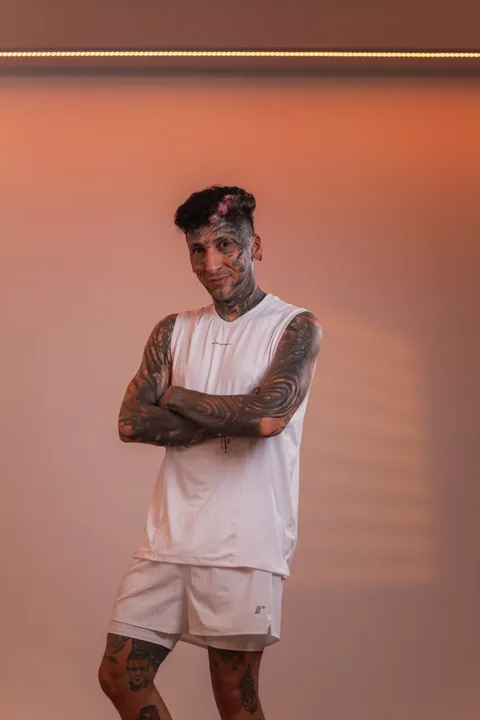
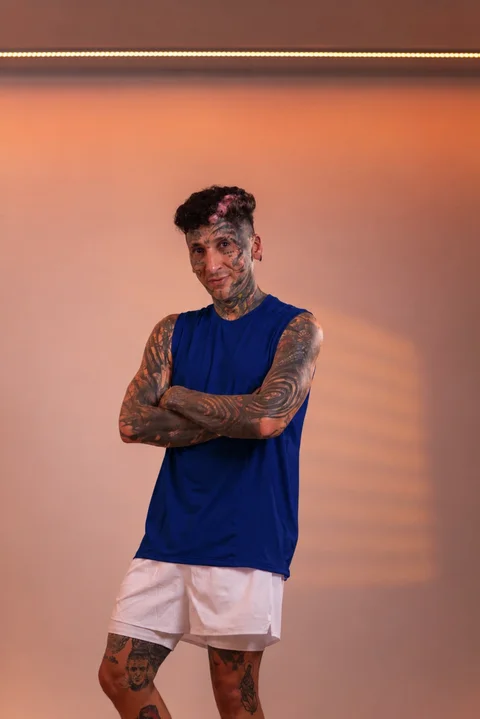
fix: apply verified teacher photo selections
W-01, W-05: apply only clear annotated selections; preserve CMS overrides and pending identities. Browser review remains pending.

diff --git a/src/modules/website/pages/HomePage.tsx b/src/modules/website/pages/HomePage.tsx
@@ -76,7 +76,7 @@ function SanctuaryHome() {
         {today.length ? today.slice(0, 4).map(({ session, modality, teacher }) => <Link key={session.id} to={modality ? `/site/schedule?modality=${modality.slug}` : '/site/schedule'} className="sanctuary-session"><span className="sanctuary-session-time">{new Intl.DateTimeFormat(lang === 'es' ? 'es-CO' : 'en-US', { hour: 'numeric', minute: '2-digit' }).format(new Date(session.starts_at))}</span><span><strong>{session.title}</strong><small>{teacher?.display_name} · {modality?.duration_min ?? 60} min</small></span><span aria-hidden>↗</span></Link>) : <p className="sanctuary-agenda-empty">{t('site.today.empty')}</p>}
       </div></div></section>,
     Teachers: () => <section className="container sanctuary-section" data-reveal><div className="sanctuary-heading"><div><p className="eyebrow">{t('site.nav.teachers')}</p><h2>{t('site.new.teachersTitle')}</h2><p className="muted">{t('site.new.teachersBody')}</p></div><Link className="sanctuary-text-link" to="/site/teachers">{t('site.nav.teachers')} <Icon name="arrow-right" /></Link></div>
-      <div className="sanctuary-teachers"><div className="sanctuary-community"><>{photoEdition ? <img {...studioPhotoProps('pricing-duo')} alt={t('site.photos.duo')} className="photo-community" /> : <AmbientScene poster={siteImage('community')} video={videoEnabled ? siteVideo('community') : undefined} alt={t('site.new.community')} motion={motion} className="community-living" />}</><p>{t('site.new.community')}</p></div><div className="sanctuary-teacher-list">{teachers.map((te, i) => {
+      <div className="sanctuary-teachers"><div className="sanctuary-community"><>{photoEdition ? <img {...studioPhotoProps('hero-group', true)} alt={t('site.photos.teachersGroup')} className="photo-community" /> : <AmbientScene poster={siteImage('community')} video={videoEnabled ? siteVideo('community') : undefined} alt={t('site.new.community')} motion={motion} className="community-living" />}</><p>{t('site.new.community')}</p></div><div className="sanctuary-teacher-list">{teachers.map((te, i) => {
         // 0051: real teachers, no generated portraits — the photo once uploaded, else initials in the tone of their class.
         const mod = modalities.find((m) => m.id === te.specialties[0]);
         const cls = classForModality(mod?.slug);

diff --git a/src/modules/website/photography.ts b/src/modules/website/photography.ts
@@ -3,5 +3,8 @@ export const studioPhoto = (name: string, width = 960) => `${import.meta.env.BAS
 export function studioPhotoProps(name: string, portrait = false, priority = false) {
   return { src: studioPhoto(name), srcSet: `${studioPhoto(name, 480)} 480w, ${studioPhoto(name)} 960w`, sizes: '(max-width: 700px) 100vw, 50vw', width: 960, height: portrait ? 1440 : 640, loading: priority ? 'eager' as const : 'lazy' as const, decoding: 'async' as const, fetchPriority: priority ? 'high' as const : 'auto' as const };
 }
-const teacherPhotos: Record<string, string> = { tea_leandro: 'teacher-leandro', tea_tatiana: 'teacher-tatiana', tea_sara_c: 'teacher-sara-crismatt', tea_raghu: 'teacher-raghu', tea_maria_camila: 'teacher-maria-camila', tea_sara_e: 'teacher-sara-estrada', tea_carolina: 'teacher-carolina' };
+// Aleja's 2026-10-26 drawing explicitly links Andre Cardona (not the separate Andrea
+// profile) to the hand-on-hip portrait. Carolina's conflicting arrows remain pending.
+// Source IDs and conversion provenance: docs/reference/aleja-teacher-photos-2026-10-26.md.
+const teacherPhotos: Record<string, string> = { tea_leandro: 'teacher-leandro', tea_tatiana: 'teacher-tatiana', tea_sara_c: 'teacher-sara-crismatt', tea_raghu: 'teacher-raghu', tea_maria_camila: 'teacher-maria-camila', tea_sara_e: 'teacher-sara-estrada', tea_carolina: 'teacher-carolina', tea_andre: 'teacher-andre-cardona', tea_clara: 'teacher-clara' };
 export const teacherStudioPhoto = (id: string) => teacherPhotos[id] ? studioPhoto(teacherPhotos[id]) : undefined;

diff --git a/src/modules/website/strings.ts b/src/modules/website/strings.ts
@@ -19,6 +19,7 @@ export const strings: StringTable = {
   'site.photos.heater': { es: 'Detalle de la calefacción del estudio', en: 'A detail of the studio heating' },
   'site.photos.equipment': { es: 'Accesorios de práctica del estudio', en: 'Practice equipment in the studio' },
   'site.photos.duo': { es: 'Dos personas practicando movimiento juntas', en: 'Two people practicing movement together' },
+  'site.photos.teachersGroup': { es: 'Cuatro personas practicando movimiento frente a una pared de listones', en: 'Four people practicing movement in front of a slatted wall' },
   'site.photos.facilities': { es: 'Un espacio para estar presente', en: 'A space to be present' },
 
   'site.edition.latest': { es: 'Latest · Actual', en: 'Latest · Current' },

diff --git a/docs/reference/aleja-teacher-photos-2026-10-26.md b/docs/reference/aleja-teacher-photos-2026-10-26.md
@@ -1,0 +1,22 @@
+# Teacher photograph selection receipt
+
+Reviewed the complete supplied teacher drawing and enlarged labels/arrows. No PDF pixels are used as website assets. The detailed private source receipt is retained outside the repository; private Drive links and source-file metadata are intentionally excluded from this published summary.
+
+| Stable ID / placement | Visual selection from the annotated drawing | Action |
+| --- | --- | --- |
+| `tea_raghu` | Blue top, palms together | Replace white-top WebP variants |
+| `tea_leandro` | Blue top, folded arms | Replace white-top WebP variants |
+| `tea_clara` | Wood box portrait | Add named fallback and responsive assets |
+| `tea_andre` | Hand on hip, selected by the dark-blue arrow linking the Andre Cardona list row and AC card | Add named fallback; preserve the separate Andrea profile |
+| Home teacher-section group | Four-person composition with floor and slatted wall | Reuse matching packaged `hero-group`, replacing `pricing-duo` in this section |
+| `tea_sara_e`, `tea_sara_c`, `tea_maria_camila`, `tea_tatiana` | Existing packaged portraits match the supplied drawing's composition, clothing and props | Unchanged |
+
+These mappings follow the labelled annotation, rather than inference about identity from appearance or filename. Original assets were converted to responsive 480/960 WebP variants, auto-oriented, metadata stripped, quality 85, without enlargement. No generated imagery or enlarged PDF crops. Original source files are untouched.
+
+## Preserved pending decisions
+
+Carolina's directory assignment stays unchanged because the home-list and directory arrows conflict. Availability of a matching backbend source does not resolve that conflict. The separate `tea_andrea` and `tea_jennifer` profiles have no clear replacement arrows and remain unassigned. Stable IDs, seed records and CMS `photo_url` values are unchanged. Both public pages still use explicit `photo_url` before the opt-in Photos fallback. Latest, Classic and Archive have no new fallback assignments.
+
+## Verification status
+
+Full build and local teacher/media model checks pass. Browser QA is pending because the Wix task owns the shared BMM browser. Required follow-up: home and teacher directory, ES/EN at 390/768/1280, dark theme, image decoding/crops, and CMS override save/reload. No BMM browser was operated during this lane. Exact-head photography CI includes the matrix, placements and CMS override checks. No merge or deployment is authorized here.

diff --git a/docs/changelog/0197-aleja-teacher-photos.md b/docs/changelog/0197-aleja-teacher-photos.md
@@ -1,0 +1,19 @@
+version: 0.25.0
+date: 2026-10-26
+prompt: docs/prompts/0197-aleja-teacher-photos.md
+intent: Apply only clear teacher photograph selections from Aleja's verified drawing
+decision: Correct Raghu and Leandro clothing selections, add Clara and explicitly annotated Andre Cardona fallbacks, and use the matching group photo in the Photos teacher section
+rejected: Assigning the separate Andrea/Jennifer profiles or resolving Carolina's conflicting arrows without clarification; enlarging PDF crops
+files: src/modules/website/photography.ts, src/modules/website/pages/HomePage.tsx, src/modules/website/strings.ts, public/images/studio-2026/teacher-*.webp, src/data/mediaCatalog.generated.json, scripts/test-teacher-photography.mjs, scripts/test-photography-ui.mjs, .github/workflows/photography-qa.yml, docs/reference/aleja-teacher-photos-2026-10-26.md
+
+# Aleja teacher photograph corrections
+
+W-01 and W-05, opt-in Photos edition. Explicit CMS photographs retain priority. Stable IDs and teacher data are unchanged; the separate Andrea/Jennifer profiles and Carolina assignment remain pending. No tracker, backend or release changes.
+
+Validation: full production build; teacher mapping/base URL and deterministic media catalogue checks; media model/file integrity and access-model checks. Existing bundle-size warning remains. Browser photography and CMS photo-picker integration checks are pending while the Wix task owns the shared BMM UI. Extended the exact-head photography workflow with the mapping/drift check, ES/EN tablet coverage, both dark themes, annotated placements and CMS override precedence after reload on Home and Teachers in Photos and Latest. Independent review and exact-head CI are required before merge.
+
+[screenshot: W-01 — Photos teacher group and corrected thumbnail selections, browser lane pending]
+
+[screenshot: W-05 — Photos directory selections, browser lane pending]
+
+**Resumen (ES).** Se aplican únicamente las selecciones claras del dibujo: fotos azules de Raghu y Leandro, Clara, la foto indicada por la flecha de Andre Cardona y el grupo. Se conservan los identificadores, las fotos del CMS y las asignaciones pendientes. La revisión visual queda pendiente mientras Wix usa el navegador.

diff --git a/docs/prompts/0197-aleja-teacher-photos.md b/docs/prompts/0197-aleja-teacher-photos.md
@@ -1,0 +1,21 @@
+# Aleja teacher photograph corrections
+
+Source: delegated implementation instruction · 2026-10-26 · owner
+
+## Prompt
+
+> Implement narrow teacher-photo corrections in imagine-os/hoy from Aleja's verified drawing. User explicitly requested applying her new PDF from Hoy Yoga Studio Programming to this repository.
+>
+> Preserve stable teacher IDs and CMS photo_url overrides.
+>
+> Carolina mapping is unresolved, keep her directory unchanged; Andrea/Jennifer no clear replacement arrows. Implement only clear source-backed mappings and group image. No backend/auth/payment/email/security/credentials/access changes, no tracker/kanban or unrelated feature edits.
+>
+> Do NOT operate browser now: Wix task owns BMM UI; start shell/file inspection and code only.
+>
+> Do not merge or deploy from this lane.
+
+## Response
+
+Applied the clear blue-top Raghu/Leandro selections, Clara's wood-box portrait, the dark-blue arrow's Andre Cardona portrait, and the matching four-person group placement to the Photos edition. Kept the separate Andrea and Jennifer profiles and Carolina's conflicting directory assignment unchanged. CMS overrides and stable teacher IDs are preserved. Added provenance and catalogue-drift checks. Browser verification remains pending until the Wix task releases the browser; no merge or deployment performed. Kanban was left untouched per the explicit scope restriction.
+
+See [changelog](../changelog/0197-aleja-teacher-photos.md) and [source receipt](../reference/aleja-teacher-photos-2026-10-26.md).

diff --git a/docs/pages/W-01.md b/docs/pages/W-01.md
@@ -122,6 +122,10 @@ Opt-in `version=photos` edition, using the supplied studio photographs. Latest r
 
 ## Shared studio hero · 0067
 
+Teacher-photo correction (0197): the Photos teacher section uses the four-person slatted-wall group and Aleja's clear portrait selections, preserving explicit CMS photos. See [source receipt](../reference/aleja-teacher-photos-2026-10-26.md). The earlier captures above predate this correction; new visual evidence is pending the browser lane / exact-head CI.
+
+[screenshot: W-01 — Corrected Photos teacher group and portraits, ES/EN 390/768/1280 and dark review pending]
+
 Latest (the bare `/site` URL) and the selectable Photos edition now use the same full-bleed real studio hero as Coming Soon. Its responsive 480/960/1600 px sources account for portrait cover geometry; the dark-blue veil and cream text retain readable contrast. The historical Archive and Classic treatments remain selectable and unchanged. Other page content keeps its existing edition behavior.
 
 ![Spanish regular hero, mobile](../screenshots/W-01/studio-latest-es-390.jpg)

diff --git a/docs/pages/W-05.md b/docs/pages/W-05.md
@@ -92,6 +92,10 @@ Built demo captures; booking and availability states are fictional.
 
 ## Studio photography preview (0064)
 
+Teacher-photo correction (0197): Photos uses Aleja's blue-top Raghu/Leandro selections, Clara's wood-box portrait, and the hand-on-hip portrait explicitly linked to Andre Cardona. Carolina's directory assignment, the separate Andrea and Jennifer profiles, and CMS overrides are preserved. See [source receipt](../reference/aleja-teacher-photos-2026-10-26.md). Captures below predate this correction; current visual evidence remains pending.
+
+[screenshot: W-05 — Corrected Photos directory, ES/EN 390/768/1280 and dark review pending]
+
 Opt-in `version=photos` edition, using the supplied studio photographs. Latest remains the default. Captures from hosted Photography QA cover the five changed public pages in both languages, phone/tablet/desktop and dark mode.
 
 ![Photo preview · es-390](../screenshots/W-05/photo-es-390.jpg)
